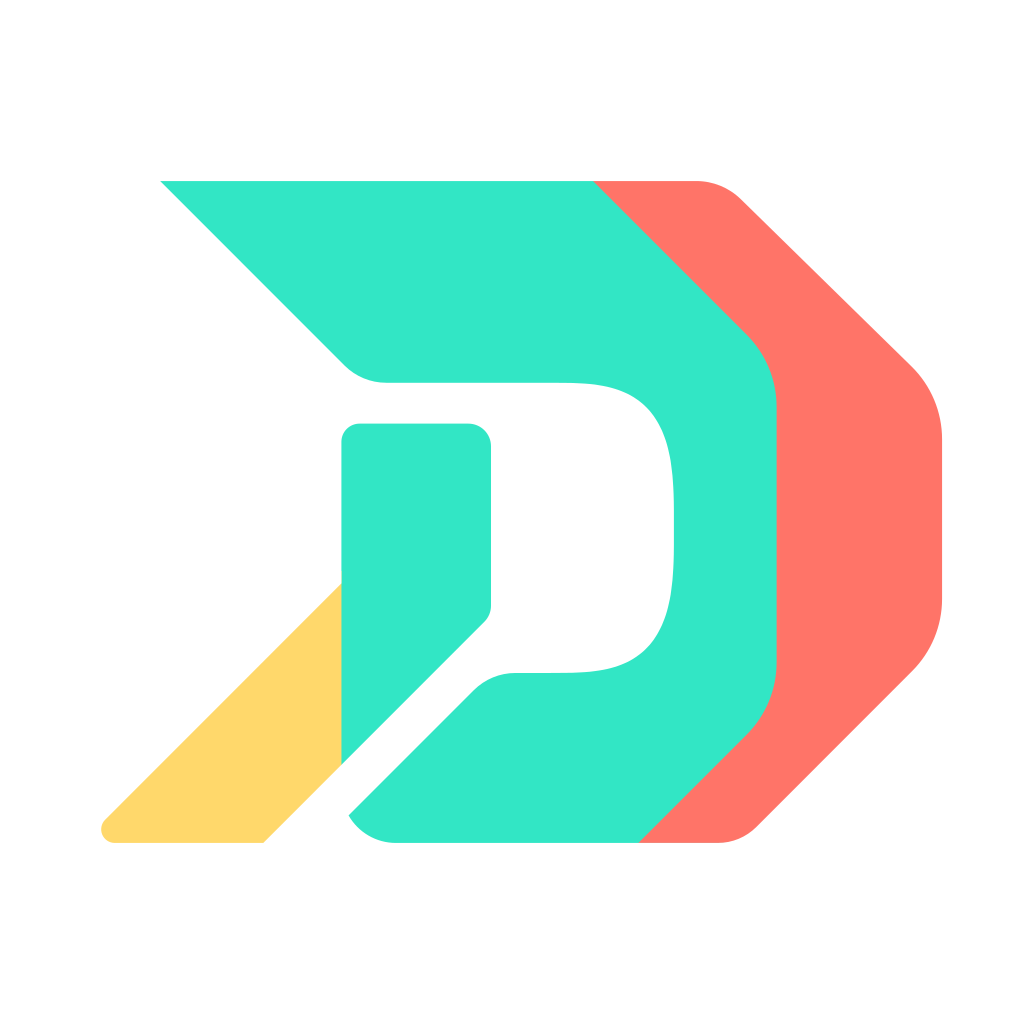
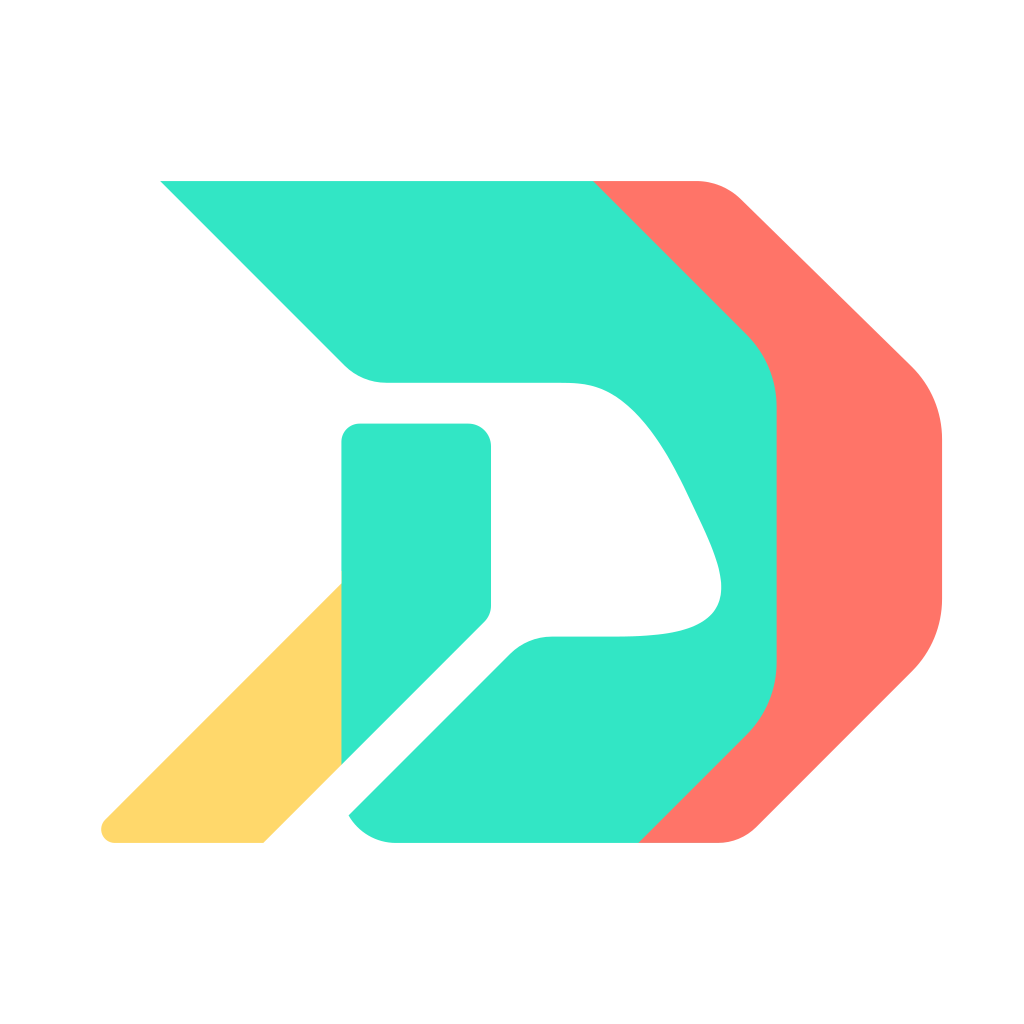
Match regular letter strokes and reshape the D counter proofs

Changed region(s): [[0.4688, 0.4688, 0.7188, 0.6875], [0.5938, 0.375, 0.6562, 0.4375]]

diff --git a/branding/sources/compare_geometry.py b/branding/sources/compare_geometry.py
@@ -23,7 +23,6 @@ def counter_options(inkscape):
         (1000 - (geometry.BOTTOM - geometry.TOP) * scale) / 2 - geometry.TOP * scale,
     )
     bowl = geometry.bowl_side()[0][1]
-    left = bowl[0][0]
     # Counter area is measured right of the island's straight stem edge.
     points = [
         (geometry.STEM_R, geometry.APERTURE_BOTTOM),
@@ -34,24 +33,49 @@ def counter_options(inkscape):
         sum(a[0] * b[1] - b[0] * a[1] for a, b in zip(points, points[1:] + points[:1]))
         / 2
     )
-    fixed = (left - geometry.STEM_R) * (
-        geometry.APERTURE_BOTTOM - geometry.APERTURE_TOP
-    )
+    # Retain n=3.2 corner sampling, but taper the upper shoulder and bias the
+    # rounded nose downward. The top stays fixed to preserve the island gap.
+    reshaped = []
+    for x, y in bowl:
+        u = (y - 157) / 128
+        reshaped.append((324 + 16 * u + (x - 324) * (0.5 + 0.5 * u), 157 + 112 * u))
+
+    def counter_area(factor):
+        profile = [(298 + (x - 298) * factor, y) for x, y in reshaped]
+        contour = [
+            ("aperture_bl", 314, 269),
+            ("poly", profile),
+            ("close_top", 298, 157),
+            ("close_bottom", 298, 285),
+        ]
+        polygon = geometry.build(contour, geometry.RADII)[1]
+        return abs(
+            sum(
+                a[0] * b[1] - b[0] * a[1]
+                for a, b in zip(polygon, polygon[1:] + polygon[:1])
+            )
+            / 2
+        )
+
+    base_area = counter_area(1)
+    area_slope = (counter_area(1.2) - base_area) / 0.2
     commands = [subprocess.check_output([inkscape, "--version"], text=True).strip()]
     font = ImageFont.truetype("DejaVuSans.ttf", 23)
-    sheet = Image.new("RGB", (6296, 4350), "#E4E8EC")
+    sheet = Image.new("RGB", (5248, 4350), "#E4E8EC")
     draw = ImageDraw.Draw(sheet)
-    for column, reduction in enumerate((0, 0, 10, 20, 30, 0)):
-        factor = (area * (1 - reduction / 100) - fixed) / (area - fixed)
+    for column, reduction in enumerate((0, 0, 10, 20, 30)):
+        factor = 1 + (area * (1 - reduction / 100) - base_area) / area_slope
         contour = geometry.outline()
-        if reduction:
+        if column:
             contour = [
-                ("poly", [(left + (x - left) * factor, y) for x, y in vertex[1]])
+                ("poly", [(298 + (x - 298) * factor, y) for x, y in reshaped])
                 if vertex[0] == "poly"
+                else ("aperture_bl", 314, 269)
+                if vertex[0] == "aperture_bl"
                 else vertex
                 for vertex in contour
             ]
-        if 0 < column < 5:
+        if column:
             # The channel cuts off this circle before its x=232 tangent.
             # Keep that non-tangent join visible rather than overlap the arc.
             radius = 24
@@ -66,10 +90,9 @@ def counter_options(inkscape):
                 else vertex
                 for vertex in contour
             ]
-        radii = {**geometry.RADII, "bottom_channel": 24 if column == 5 else 0}
         path = geometry.to_svg(
             [
-                geometry.build(contour, radii)[0],
+                geometry.build(contour, geometry.RADII)[0],
                 geometry.build(geometry.stem(), geometry.RADII)[0],
             ],
             transform,
@@ -77,9 +100,7 @@ def counter_options(inkscape):
         name = (
             "current"
             if not column
-            else "tangent-round"
-            if column == 5
-            else "round-only"
+            else "counter-reshaped"
             if not reduction
             else f"counter-minus-{reduction}"
         )
@@ -108,11 +129,9 @@ def counter_options(inkscape):
         title = (
             "CURRENT"
             if not column
-            else "ALTERNATIVE - TANGENT R24"
-            if column == 5
-            else "X232 CONSTRUCTION / PARTIAL R24"
+            else "RESHAPED / SAME AREA / PARTIAL R24"
             if not reduction
-            else f"COUNTER AREA -{reduction}% / PARTIAL R24"
+            else f"RESHAPED / AREA -{reduction}% / PARTIAL R24"
         )
         draw.text((x, 12), title, font=font, fill="#1F242A")
         for row, (variant, background, foreground) in enumerate(
@@ -136,7 +155,8 @@ def counter_options(inkscape):
                 (x, y + 1026), f"{variant} - native 1024 px", font=font, fill="#1F242A"
             )
         print(
-            f"{name}: horizontal squircle factor={factor:.9f}; right={left + 64 * factor:.6f}"
+            f"{name}: horizontal profile factor={factor if column else 1:.9f}; "
+            f"right={max(298 + (x - 298) * factor for x, _ in reshaped) if column else 388:.6f}"
         )
     sheet.save(output.parent / "counter-size-options.png")
     (ROOT / "sources/counter-export-commands.txt").write_text(

diff --git a/branding/sources/build_brand.py b/branding/sources/build_brand.py
@@ -29,12 +29,16 @@ ET.register_namespace("sodipodi", SOD)
 # The outlined Outfit scaffold is retained for editing. These proposed contours
 # replace its rounded terminals with the reference's diagonal construction.
 # Coordinates use the reference lettering's 56-unit ascender-to-baseline frame.
+K_DIAGONAL_SPAN = 14 * math.sqrt(2)
+K_ARM_TOP = 63 - K_DIAGONAL_SPAN
+K_LEG_INNER = 3 + K_DIAGONAL_SPAN
+K_JOIN_X = (63 - K_LEG_INNER) / 2
 LETTERS = {
-    "i": "M2 0H19V8L0 16V2Z M0 20L15 12V49L8 56H0Z",
+    "i": f"M2 0H19V8L0 16V2Z M0 20L15 {20 - 15 * 8 / 19}V49L8 56H0Z",
     "n": "M0 56V25L12 14H30L42 25V56H28V33Q28 26 21 26Q14 26 14 33V56Z",
-    "k": "M7 0L15.9 -8.9A3 3 0 0 1 21 -6.8V22L29 14H49L30 33L67 70H44L18.5 44.5L7 56Z",
+    "k": f"M7 0L15.9 -8.9A3 3 0 0 1 21 -6.8V{K_ARM_TOP - 21}L{K_ARM_TOP - 14} 14H49L30 33L67 70H{70 - K_LEG_INNER}L{K_JOIN_X} {63 - K_JOIN_X}L7 56Z",
     "s": "M36 14L30 26H15L32 37Q39 42 35 49Q32 56 23 56H12L0 44H22L5 33Q-2 28 2 21Q6 14 15 14Z",
-    "t": "M0 0L14 -11V14H30L24 27H14V39Q14 44 20 44H29V56H12L0 44Z",
+    "t": "M0 0L14 -11V14H30L24 27H14V39Q14 44 20 44H23L29 56H12L0 44Z",
     "e": "M40 25L16 43H38L31 56H18Q0 56 0 38V26A12 12 0 0 1 12 14H25Q34 14 40 25Z M14 34V28A2 2 0 0 1 16 26H25Z",
     "r": "M0 56V29L17 14H33L21 27H17L14 30V49L7 56Z",
 }

diff --git a/branding/sources/geometry-notes.md b/branding/sources/geometry-notes.md
@@ -128,17 +128,32 @@ proof variants are not production selections.
 ## Counter and larger-corner proposals
 
 `compare_geometry.py --counter-options` retains the approved geometry and
-renders full D proposals at 1024 px. The three smaller counters keep
-the y=157/285 flats, symmetry about y=221, n=3.2 superellipse exponent,
-left radii 26, island and channel gaps unchanged. Only the horizontal
-radius of the superellipse half is reduced, with its left endpoint
-x=324 fixed. The area metric closes the counter at the island's straight
-right edge x=298; it excludes the open channel. The sampled right-half
-area plus the fixed 26x128 flat rectangle gives horizontal radius
-factors 0.854588344, 0.709176687 and 0.563765031 for 10/20/30 percent
-less area. The resulting right extremes are 378.693654, 369.387308 and
-360.080962. Vertical size is deliberately retained to preserve the gaps
-and left corners; these are aspect-ratio proposals, not chosen geometry.
+renders full D proposals at 1024 px. The reshaped counter reduces the
+157..285 vertical range to 157..269. Its upper shoulder tapers into a
+lower-biased rounded nose, rather than a symmetric squircle. It starts
+from the n=3.2 sample points (x,y), with u=(y-157)/128, then maps them to
+(324+16*u+(x-324)*(0.5+0.5*u), 157+112*u). This warp is the explicit
+counter shape change; the unchanged reference still uses the unwarped
+n=3.2 profile. The left corner radii remain 26; the bottom-left vertex
+moves along the existing channel to (314,269). Island and channel lines,
+their gaps and outer radii stay unchanged.
+
+The sampled counter-area metric closes at the island's straight right
+edge x=298, excluding the open channels. It includes the new bottom-left
+fillet before measuring. A horizontal scale around x=298 is solved from
+the area target, showing unchanged, -10, -20 and -30 percent area versus
+the current counter. All four use the same vertical profile. Maintaining
+the old area with less height requires a wider counter; the sheet shows
+that explicitly, rather than silently discarding the same-area option.
+
+At the horizontal flats, the current top stroke is 157-68 = 89 source
+units and the bottom stroke is 360-285 = 75. The proposals keep top 89
+and increase bottom to 360-269 = 91. The hole's maximum vertical span
+between the central flats reduces from 128 to 112 units; the left
+channel still follows its unchanged line. At common interior source x=338, the
+counter upper shoulder changes the actual vertical clearances; the
+checkpoint comment reports those measured per-option stroke thicknesses
+as well as these flat-reference values.
 
 The x=232 trim's corner uses a real radius-24 circle centered at
 (256,336). The old vertical trim segment is only 9 units tall, so a full
@@ -147,11 +162,8 @@ The proposal ends the circle at its exact intersection with x+y=583,
 approximately (235.1369,347.8631). The arc is tangent to the baseline but
 not to the channel; no self-overlapping vertical/arc segment is inserted.
 The x=232 trim line is therefore a construction boundary rather than a
-surviving straight segment. The comparison explicitly shows a second,
-fully tangent radius-24 alternative on the original baseline/channel
-intersection. That alternative's leftmost point is about x=256.94,
-farther right than the requested trim. Neither corner construction is
-silently treated as the user's selection. The current shape and an
-unchanged-counter rounded proposal isolate the corner from the counter
-change. All are proof-only SVGs and PNGs, with matching mono/color alpha;
+surviving straight segment. The partial arc is the selected construction
+for these proofs; the fully tangent alternative is not selected. The
+master is not replaced until the user selects the new counter. All
+proposals are proof-only SVGs and PNGs with matching mono/color alpha;
 the master and production symbol exports stay unchanged.

diff --git a/branding/README.md b/branding/README.md
@@ -44,17 +44,21 @@ The regular e joins flat top/left segments with a 12-unit circular arc.
 The blue line is the start of the k/t top slopes, not their highest
 point; the i dot's top edge ends on that line and never rises above it.
 The regular k beam ends in a triangle at (7,56), with its cut
-meeting the lower leg at (18.5,44.5). The i dot/stem separation is reduced
-by moving the stem top up four units. The e counter joins its flat top
-and left with a tangent 2-unit arc.
+meeting the lower leg at approximately (20.1005,42.8995). Both diagonal
+strokes have the bar's 14-unit perpendicular thickness, not a 14-unit
+horizontal span. The i's opposing faces have slope -8/19 and a four-unit
+vertical separation; its dot shape is unchanged. The t's lower-right
+face runs from (23,44) to (29,56). The e counter joins its flat top and
+left with a tangent 2-unit arc.
 Reference-image guides are measured raster estimates, not vector
 constraints imposed on or alterations to the supplied image.
 
 `compare_geometry.py --counter-options --inkscape /path/to/inkscape`
 renders the full-size counter proposals without changing the approved
-source or master. The comparison includes the current shape, the x=232
-trim with a 24-unit corner arc, three smaller counters, and a tangent
-24-unit corner alternative. `counter-export-commands.txt` records the
+source or master. The comparison includes the current shape and a
+vertically shallower, bottom-biased rounded counter at unchanged, -10,
+-20 and -30 percent area, each with the partial radius-24 x=232 corner.
+`counter-export-commands.txt` records the
 renderer and every CLI export. See `geometry-notes.md` for the corner's
 channel-intersection constraint and the counter-area measurement.
 
